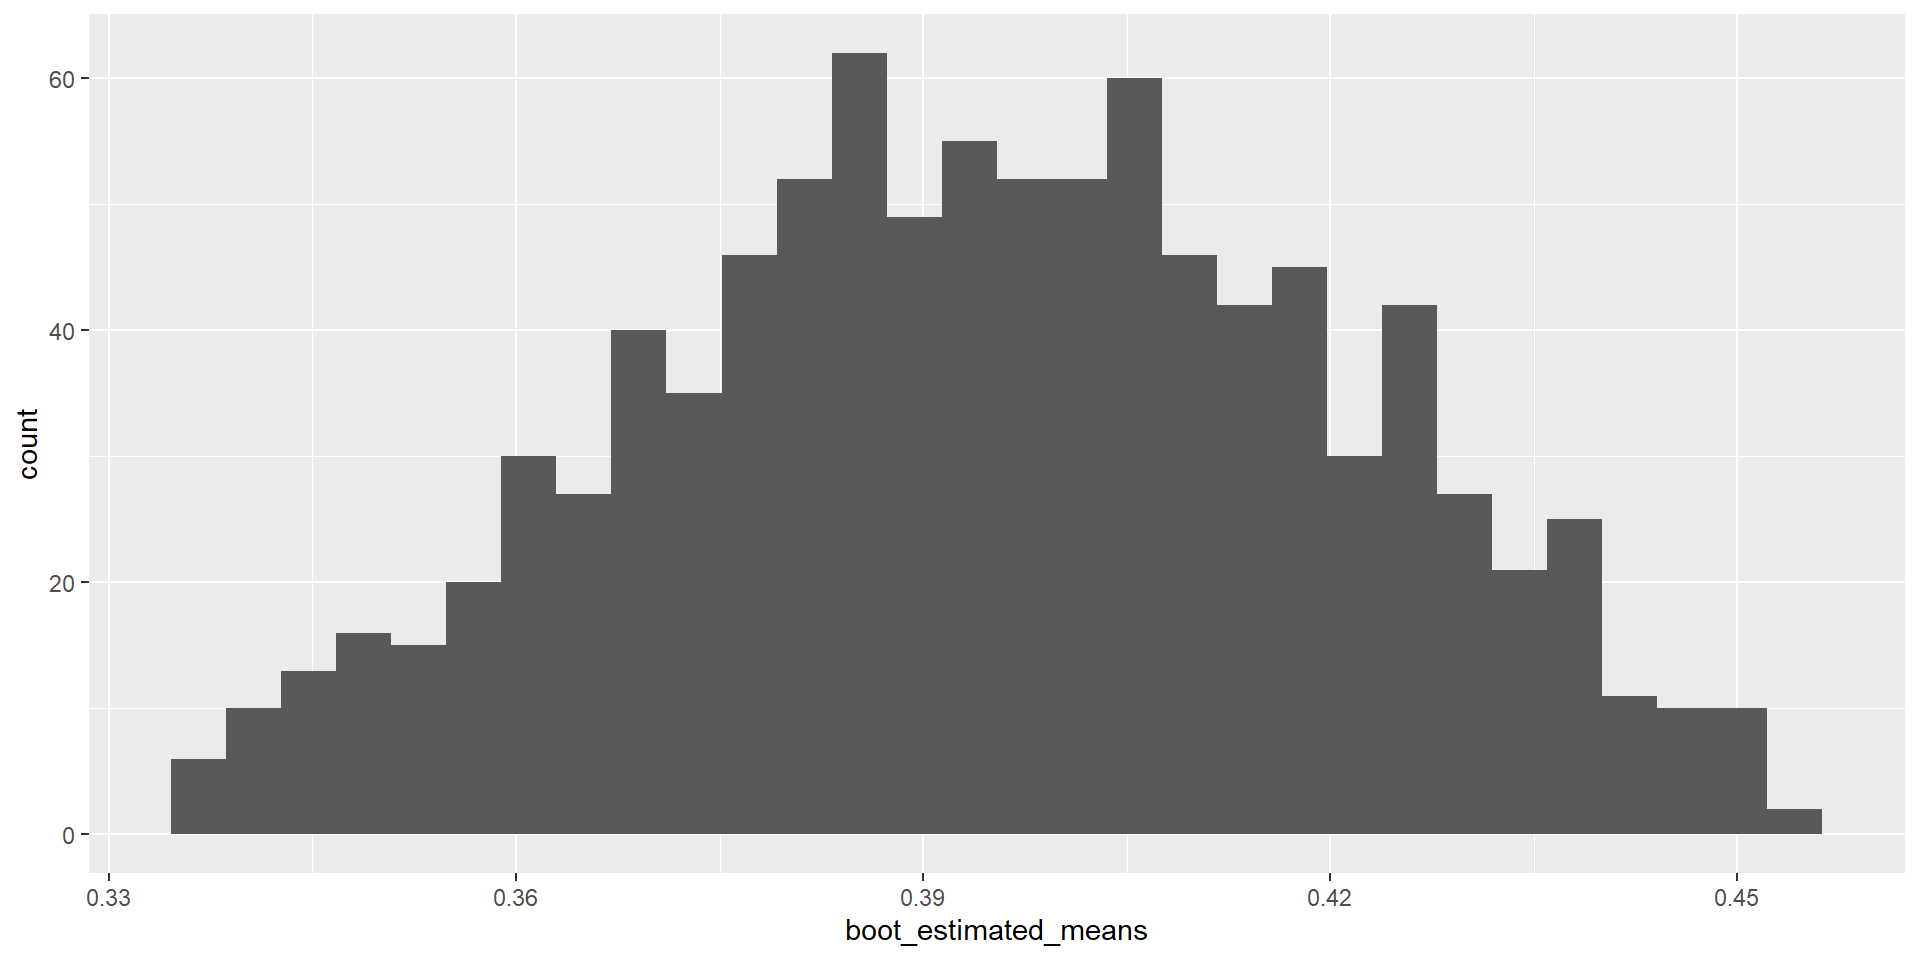
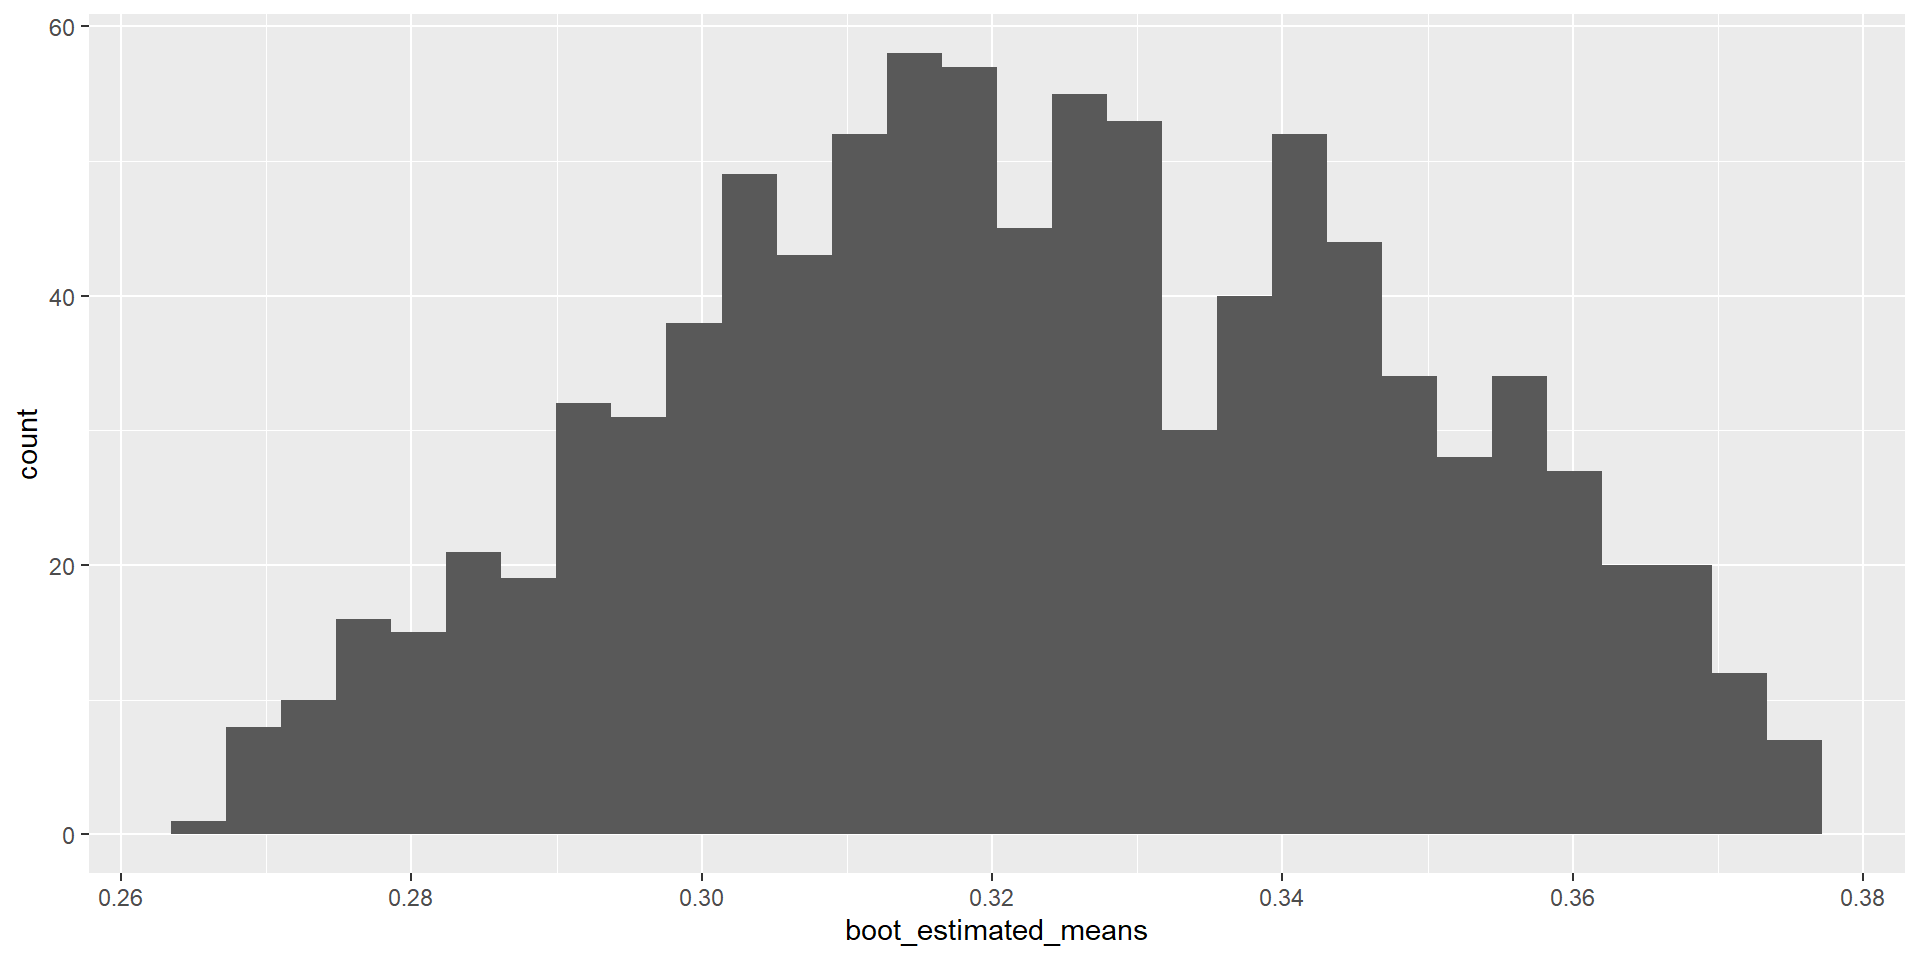
build presentation

diff --git a/Bootstrapping-Group-Presentation.html b/Bootstrapping-Group-Presentation.html
@@ -456,6 +456,17 @@ Jamielee Jimenez Perez
 <li>This result in multiple different types of Bootstraps that can be used for different applications or to get around certain assumptions of another type of Bootstrap.</li>
 </ul>
 </section>
+<section id="what-is-the-bootstrap-method-cont." class="slide level2">
+<h2>What is the Bootstrap Method (cont.)</h2>
+<center>
+<div class="quarto-figure quarto-figure-center">
+<figure>
+<p><img data-src="Bootstrapping-Group-Presentation_files/figure-revealjs/bootstrapping-image.png" style="height:200.0%"></p>
+<p></p><figcaption>figure 1 <span class="citation" data-cites="bootpic">(<a href="#/references" role="doc-biblioref" onclick="">Joseph 2020</a>)</span></figcaption><p></p>
+</figure>
+</div>
+</center>
+</section>
 <section id="assumptions-and-shortcomings" class="slide level2">
 <h2>Assumptions and Shortcomings</h2>
 <ul>
@@ -481,7 +492,7 @@ Jamielee Jimenez Perez
 <section id="application-2" class="slide level2">
 <h2>Application 2</h2>
 <ul>
-<li>In Nonparametric Estimates of Standard Error: The Jackknife, the Bootstrap, and Other Methods <span class="citation" data-cites="efron2">(<a href="#/references" role="doc-biblioref" onclick="">Bradley Efron 1981</a>)</span>. He introduces the concept of using the Bootstrap to estimate the standard error based on the data. While this is normally done using parametric modeling methods, here it is being done with non-parametric methods, like the Bootstrap. As time has progressed, and computers have become more powerful, the applications of Bootstrapping have increased.</li>
+<li>In Nonparametric Estimates of Standard Error: The Jackknife, the Bootstrap, and Other Methods <span class="citation" data-cites="efron2">(<a href="#/references" role="doc-biblioref" onclick="">Bradley Efron 1981</a>)</span>. He introduces the concept of using the Bootstrap to estimate the standard error based on the data. While this is normally done using parametric modeling methods, in this article, it is being done with non-parametric methods, knowns as the Bootstrap.</li>
 </ul>
 </section>
 <section id="application-3" class="slide level2">
@@ -493,7 +504,7 @@ Jamielee Jimenez Perez
 <section id="application-4" class="slide level2">
 <h2>Application 4</h2>
 <ul>
-<li>Bootstrapping is in regression. In regression, the Bootstrap method can be used to perform validation on the model. In Bootstrapping with R to make generalized inference for regression model <span class="citation" data-cites="withr">(<a href="#/references" role="doc-biblioref" onclick="">Sillabutra et al. 2016</a>)</span> the authors used the Bootstrap method to resample thousands of times, fit a model to each new sample, and save the intercept and regression coefficient estimates. Confidence intervals can then be created to assess performance of a population regression model against the Bootstrap sample models. Another possible application of Bootstrapping in regression is using it to approximate the distribution of the Lasso estimator for all possible values of the unknown regression parameter vector <span class="citation" data-cites="lasso">(<a href="#/references" role="doc-biblioref" onclick="">Chatterjee and Lahiri 2011</a>)</span>.</li>
+<li>Bootstrapping is in regression. In regression, the Bootstrap method can be used to perform validation on the model. In Bootstrapping with R to make generalized inference for regression model <span class="citation" data-cites="withr">(<a href="#/references" role="doc-biblioref" onclick="">Sillabutra et al. 2016</a>)</span> the authors used the Bootstrap method to resample thousands of times, fit a model to each new sample, and save the intercept and regression coefficient estimates. Confidence intervals can then be created to assess performance of a population regression model against the Bootstrap sample models.</li>
 </ul>
 </section>
 <section id="application-5" class="slide level2">
@@ -530,9 +541,39 @@ Jamielee Jimenez Perez
 <section id="smooth-bootstrap" class="slide level2">
 <h2>Smooth Bootstrap</h2>
 <ul>
-<li>In the Smooth Bootstrap, a small amount of random noise is added to every resampled observation. This noise is zero-centered and usually normally distributed. Doing this means that the re-sampled data is not limited to just the data in the original sample, but rather to data points in close proximity to the original samples. Figure 1 shows an example of the simple bootstrap density function and Figure 2 shows an example of the smoothed density function provided by <span class="citation" data-cites="smooth">(<a href="#/references" role="doc-biblioref" onclick="">Dwornicka, Goroshko, and Pietraszek 2019</a>)</span>.</li>
+<li>In the Smooth Bootstrap, a small amount of random noise is added to every resampled observation.</li>
+<li>This noise is zero-centered and usually normally distributed.</li>
+<li>Doing this means that the re-sampled data is not limited to just the data in the original sample, but rather to data points in close proximity to the original samples.</li>
 </ul>
-<p><img data-src="Bootstrapping-Group-Report_files/figure-html/smooth1.png" alt="figure 1"> <img data-src="Bootstrapping-Group-Report_files/figure-html/smooth2.png" alt="figure 2"> # Analysis and Results</p>
+</section>
+<section id="other-types-of-bootstrap" class="slide level2">
+<h2>Other Types of Bootstrap</h2>
+<ul>
+<li>Bayesian Bootstrap
+<ul>
+<li>Creates new sets by reweighting the initial data</li>
+</ul></li>
+<li>Parametric Bootstrap
+<ul>
+<li>Random observations are drawn from a fitted parametric model</li>
+</ul></li>
+<li>Poisson Bootstrap, Block Bootstrap, Wild Bootstrap, Gaussian Bootstrap</li>
+</ul>
+</section>
+<section id="figures" class="slide level2">
+<h2>Figures</h2>
+<ul>
+<li>Figure 2 shows an example of the simple bootstrap density function and Figure 3 shows an example of the smoothed density function provided by <span class="citation" data-cites="smooth">(<a href="#/references" role="doc-biblioref" onclick="">Dwornicka, Goroshko, and Pietraszek 2019</a>)</span>.</li>
+</ul>
+</section>
+<section id="figures-cont." class="slide level2">
+<h2>Figures (cont.)</h2>
+<p><img data-src="Bootstrapping-Group-Report_files/figure-html/smooth1.png" alt="figure 2"> <img data-src="Bootstrapping-Group-Report_files/figure-html/smooth2.png" alt="figure 3"></p>
+</section></section>
+<section>
+<section id="analysis-and-results" class="title-slide slide level1 center">
+<h1>Analysis and Results</h1>
+
 </section>
 <section id="data-and-visualization" class="slide level2">
 <h2>Data and Visualization</h2>
@@ -693,13 +734,13 @@ Jamielee Jimenez Perez
 <li><p>Estimated population mean</p>
 <ul>
 <li><center>
-<span class="math inline">\(0.3358 &lt;  0.3273 &lt;  0.4535\)</span>
+<span class="math inline">\(0.2658 &lt;  0.3273 &lt;  0.3758\)</span>
 </center></li>
 </ul></li>
 <li><p>Estimated population standard deviation</p>
 <ul>
 <li><center>
-<span class="math inline">\(0.094 &lt;  0.1309 &lt;  0.1674\)</span>
+<span class="math inline">\(0.0923 &lt;  0.1309 &lt;  0.1584\)</span>
 </center></li>
 </ul></li>
 </ul>
@@ -766,14 +807,14 @@ Jamielee Jimenez Perez
 <tr class="odd">
 <td>(Intercept)</td>
 <td>1183.7273</td>
-<td>192.6677</td>
-<td>185.2595</td>
+<td>-1801.4852</td>
+<td>-1500.0582</td>
 </tr>
 <tr class="even">
 <td>x</td>
 <td>2.4^{-5}</td>
-<td>8^{-6}</td>
-<td>9^{-6}</td>
+<td>1.74^{-4}</td>
+<td>1.54^{-4}</td>
 </tr>
 </tbody>
 </table>
@@ -828,9 +869,6 @@ Jamielee Jimenez Perez
 <div id="ref-worldbank" class="csl-entry" role="doc-biblioentry">
 2022. <a href="https://data.worldbank.org/indicator/SP.POP.TOTL">https://data.worldbank.org/indicator/SP.POP.TOTL</a>.
 </div>
-<div id="ref-lasso" class="csl-entry" role="doc-biblioentry">
-Chatterjee, A., and S. N. Lahiri. 2011. <span>“Bootstrapping Lasso Estimators.”</span> <em>Journal of the American Statistical Association</em> 106 (494): 608–25. <a href="http://www.jstor.org/stable/41416396">http://www.jstor.org/stable/41416396</a>.
-</div>
 <div id="ref-chavez_2022" class="csl-entry" role="doc-biblioentry">
 Chavez, Ivan. 2022. <a href="https://www.kaggle.com/datasets/ivanchvez/causes-of-death-our-world-in-data">https://www.kaggle.com/datasets/ivanchvez/causes-of-death-our-world-in-data</a>.
 </div>
@@ -845,6 +883,9 @@ Efron, Bradley. 1981. <span>“Nonparametric Estimates of Standard Error: The Ja
 </div>
 <div id="ref-introduction" class="csl-entry" role="doc-biblioentry">
 Hossain, Mohammad. 2000. <span>“Bootstrapping – an Introduction and Its Applications in Statistics.”</span> <em>Bangladesh Journal of Scientific Research</em> 18 (January): 75–88.
+</div>
+<div id="ref-bootpic" class="csl-entry" role="doc-biblioentry">
+Joseph, Trist’n. 2020. <span>“Bootstrapping Statistics. What It Is and Why It’s Used.”</span> <em>Medium</em>. Towards Data Science. <a href="https://towardsdatascience.com/bootstrapping-statistics-what-it-is-and-why-its-used-e2fa29577307">https://towardsdatascience.com/bootstrapping-statistics-what-it-is-and-why-its-used-e2fa29577307</a>.
 </div>
 <div id="ref-difficult" class="csl-entry" role="doc-biblioentry">
 MD, MS, PhD MD, Jason Haukoos, and Roger Lewis. 2005. <span>“Advanced Statistics: Bootstrapping Confidence Intervals for Statistics with <span>‘Difficult’</span> Distributions.”</span> <em>Academic Emergency Medicine</em> 12 (April): 360–65. <a href="https://doi.org/10.1197/j.aem.2004.11.018">https://doi.org/10.1197/j.aem.2004.11.018</a>.
